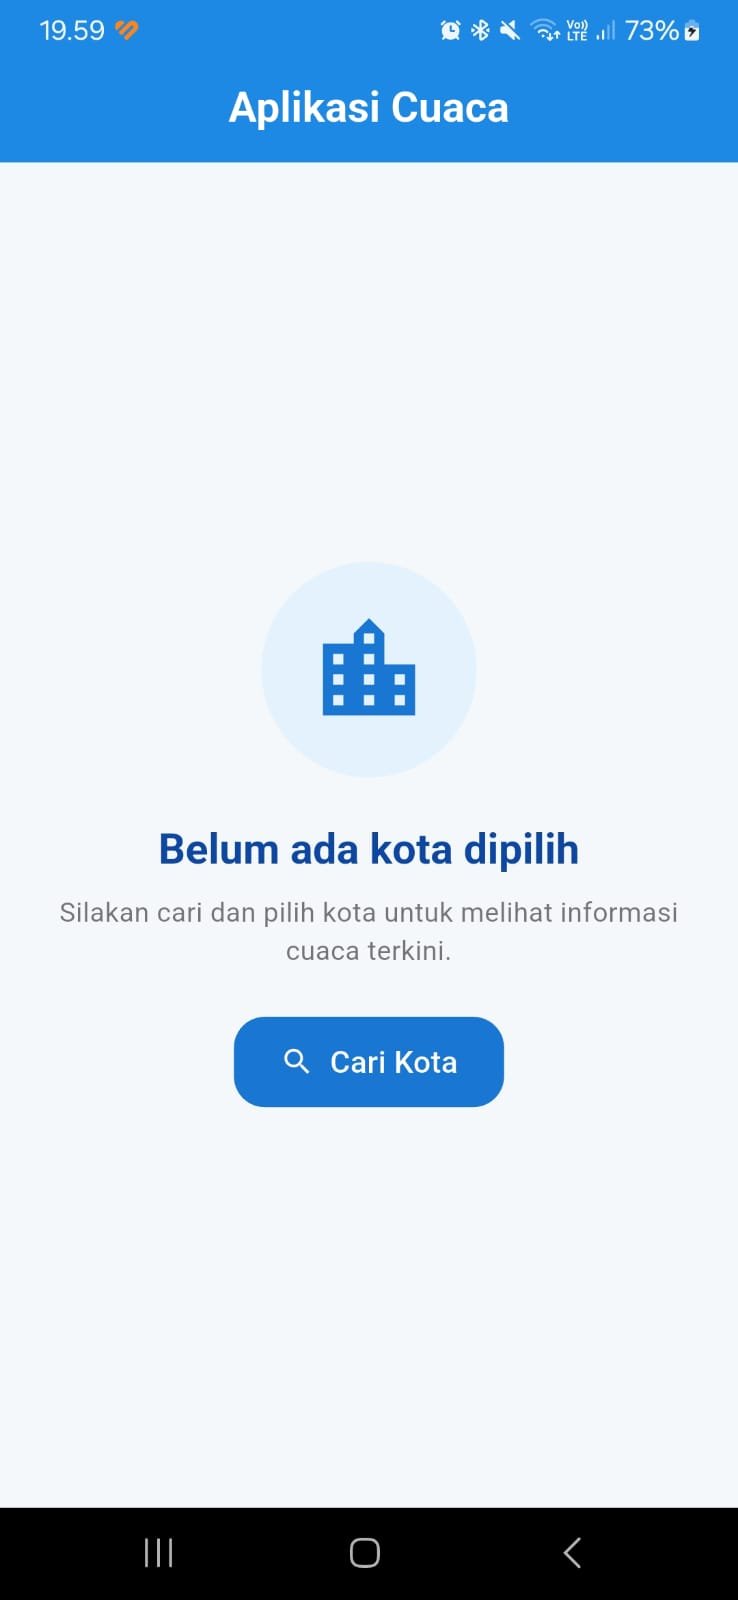
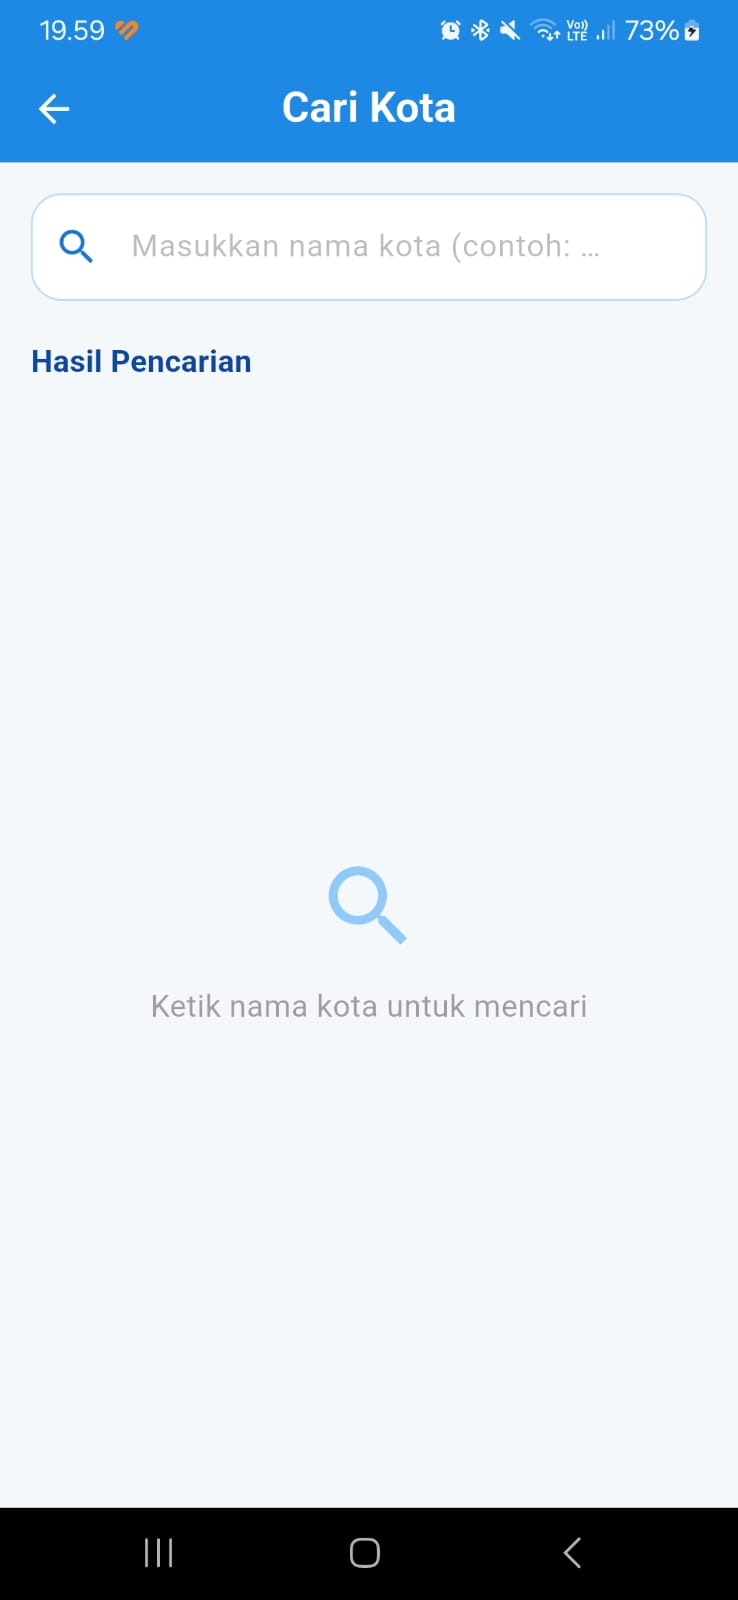
Perbaiki screenshot halaman pencarian, soalnya aku ganti foto buat yg search screen

diff --git a/README.md b/README.md
@@ -1,6 +1,6 @@
 # Aplikasi Cuaca Flutter (Responsi Flutter)
 
-Aplikasi cuaca seluler dan web berbasis Flutter yang dikembangkan untuk memenuhi tugas Responsi Pemrograman Bergerak. Aplikasi ini menerapkan pola arsitektur **MVVM (Model-View-ViewModel)**, state management **Provider**, pengambilan data dinamis dari **Open-Meteo REST API**, serta penyimpanan lokal menggunakan **SharedPreferences**.
+Aplikasi cuaca seluler dan web berbasis Flutter yang dikembangkan untuk memenuhi tugas Responsi Pemrograman Mobile. Aplikasi ini menerapkan pola arsitektur **MVVM (Model-View-ViewModel)**, state management **Provider**, pengambilan data dinamis dari **Open-Meteo REST API**, serta penyimpanan lokal menggunakan **SharedPreferences**.
 
 ---
 
